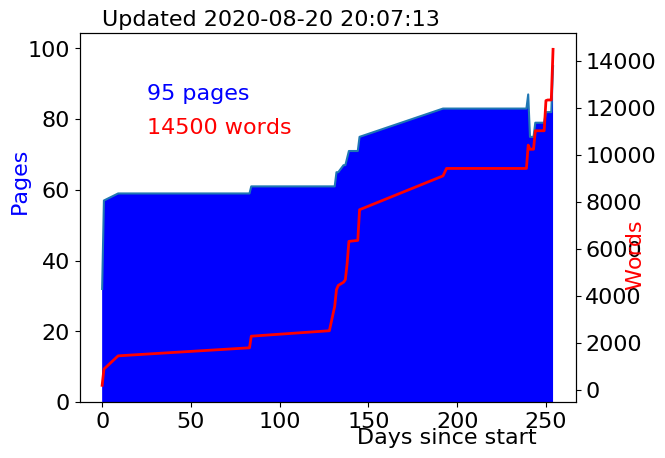
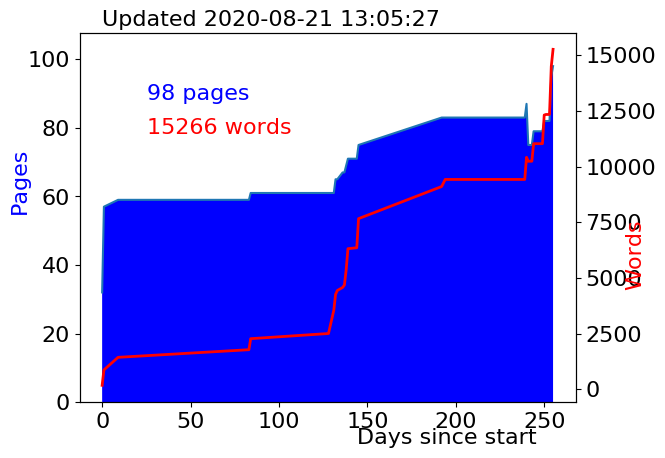
finishing systematics chapter

diff --git a/Chapters/Systematics.tex b/Chapters/Systematics.tex
@@ -4,7 +4,7 @@ In order to use this analysis to make a statement about a potential \ac{BSM} mod
 
 Where possible, the \ac{MC} is corrected to better represent the data using \emph{scale factors}, and in other cases systematic uncertainties are measured applied to the final result. Uncertainties are also evaluated on the scale factors and a list of all of the systematic uncertainties applied in the interpretation are listed in \autoref{tab:siguncertainties}. The value listed in the table describes how much varying the efficiency of a given parameter changes the final signal yield. 
 
-The major source of systematic uncertainty on the signal \ac{MC} in this analysis comes from the selection efficiency of displaced leptons, for which there is no comparable data. As a result, this is evaluated in several steps: first the trigger, reconstruction, and selection efficiencies are compared for prompt leptons in the same physics process in data and \ac{MC}; then the tracking efficiency is compared between signal muons and cosmic muons, a different physical phenomenon that also provides high \pt, high \absdz tracks; finally, the lepton reconstruction efficiency is studied with respect to displacement and a conservative additional uncertainty to account for any missed effects in data. Other event-level systematic uncertainties are applied to account for mismodeling of pileup and theory assumptions made during \ac{MC} generation. There are many standard systematic uncertainties derived by \ac{ATLAS}, for example the measurement of the energy of jets or the sagitta of muons, that do not have a large impact on this analysis with its nonstandard physics objects.
+The major source of systematic uncertainty on the signal \ac{MC} in this analysis comes from the selection efficiency of displaced leptons, for which there is no comparable data. As a result, this is evaluated in several steps: first the trigger, reconstruction, and selection efficiencies are compared for prompt leptons in the same physics process in data and \ac{MC}; then the tracking efficiency is compared between signal muons and cosmic muons, a different physical phenomenon that also provides high \pt, high \absdz tracks; finally, the lepton reconstruction efficiency is studied with respect to displacement and a conservative additional uncertainty to account for any missed effects in data. Other event-level systematic uncertainties are applied to account for mismodeling of pileup and theory assumptions made during \ac{MC} generation. There are many standard systematic uncertainties derived by \ac{ATLAS}, for example the jet energy measurements or the sagitta measurements of muons, that do not have a large impact on this analysis with its nonstandard physics objects.
 
 \todo{update table}
 
@@ -24,7 +24,7 @@ Electron Trigger	    & 0       & 0       \\
 Lepton Displacement  	& 1-18    & 2-26         \\
 Pileup Modeling     	& 7       & 7            \\
 Other theory         	& 0-5     & 0-5              \\
-DRAW Alignment Bug		& 1.5     & 1.5          \\
+\texttt{DRAW\_RPVLL} Filter Efficiency		& 1.5     & 1.5          \\
 Luminosity				& 2       & 2          \\
 \hline
 \end{tabular}
@@ -44,14 +44,33 @@ For prompt leptons, the difference between data and \ac{MC} can be thoroughly st
 \begin{equation}
 \text{scale factor} = \frac{\text{efficiency in data}}{\text{efficiency in MC}}
 \end{equation}
-Then the statistical uncertainty on this value is evaluated and applied as an additional uncertainty on the signal. 
+Then the statistical uncertainty on this value is evaluated and applied as an additional uncertainty on the signal. A 90\% scale factor means that \ac{MC} overestimates the selection efficiency by 10\%. In general, \ac{MC} estimates higher efficiencies than are seen in data. In particular, the \ac{MC} assumes a perfectly aligned detector, which is not true in practice, so variables like electron \dpt or muon \chiCB contribute to a difference between data and \ac{MC}. 
+
+\ac{ATLAS} centrally defines electron and muon scale factors for prompt electrons and muons, but due to the special triggers and selection criteria used in this analysis, custom scale factors are required. For electrons, this analysis uses photon triggers as well as a bug-fixed electron reconstruction, as well as a custom identification and non-standard selection criteria, so custom scale factors for all of these must be derived specifically for this analysis. For muons, a nonstandard trigger is used, but the reconstruction is standard (except for the tracking, evaluated separately) and the only change to the identification criteria is the removal of the cut on pixel hits, which almost all prompt muons have, so central scale factors are used, with additional selection and special trigger scale factors derived for this analysis.
+
+\subsubsection{Electrons}
+
+For electrons, $Z\rightarrow ee$ events are used to evaluate trigger scale factors, and a single scale factor for reconstruction, identification, and selection as all electrons coming from the Z are real electrons and should pass the trigger as well as all selection criteria.
+
+For both \texttt{HLT\_2g50\_loose} and \texttt{HLT\_g140\_loose} triggers, the efficiency is defined as the number of electrons passing the trigger divided by the number of electrons passing the offline identification criteria. This is done for single electrons, and in the case of the 2 electron trigger, the results are summed in quadrature. It was found that above the trigger threshold, the trigger efficiency in both data and \ac{MC} is very close to 100\%, so this scale factor and its associated uncertainty is considered negligible.
+
+The reconstruction, identification, and selection scale factors are evaluated together, by measuring the efficiency for an electron candidate to pass the final signal selection. Electron candidates are cluster-track combinations that will get identified as a photon, conversion, or electron (or none). The track reconstruction is studied separately and the cluster reconstruction efficiency at the signal \pt is nearly 100\%. The scale factors for electron selection are defined as a function of $E_{T}$ and $\eta$ and around 98\% except for in the region between the barrel and endcap (around $|\eta|$ = 1.5) where it drops to 90\% and the statistical uncertainty varies from 1-3\%. 
+
+
+\subsubsection{Muons}
+$Z\rightarrow \mu\mu$ data and \ac{MC} are used to define additional scale factors for the \texttt{HLT\_mu60\_0eta105\_msonly} trigger. The standard trigger scale factors correct for many features of the \ac{MS} and additional corrections are derived and applied for this analysis. Events are required to pass a \ac{MET} trigger to ensure an unbiased data sample and have two muons within 10 GeV of the mass of the Z boson. The trigger efficiency is then defined as the number of muons passing the \texttt{HLT\_mu60\_0eta105\_msonly} trigger divided by the number of baseline muons within 10 \GeV of the Z boson peak.
+
+Similarly, selection scale factors are defined by requiring that one muon near the Z mass pass all signal selections (except the \absdz cut), then the efficiency for the second baseline muon to pass the same signal selection cuts.
+
+The scale factors are larger for muons than for electrons because many of the structural features of the \ac{MS} are not well modeled in \ac{MS}. The statistical errors are also around 3\%.
+
 
 \subsection{Tracking}
-This analysis relies on \ac{LRT} in order to reconstruct leptons with high \pt and high \absdz. To do this, we exploit the collection of high \pt, high \absdz tracks provided by cosmic muons. Cosmic muons are tagged as muons with \ac{MS} activity on the other side of the detector, so the cosmic muon must have also passed through the \ac{ID} leaving a track behind. Provided we make some kinematic selections, the existence of the track back-to-back with the cosmic should be solely dependent on the LRT efficiency.
+This analysis relies on \ac{LRT} in order to reconstruct leptons with high \pt and high \absdz. To do this, we exploit the collection of high \pt, high \absdz tracks provided by cosmic muons. Cosmic muons are tagged as muons with \ac{MS} activity on the other side of the detector, so the cosmic muon must have also passed through the \ac{ID} leaving a track behind. Provided we make some kinematic selections, the existence of the track back-to-back with the cosmic should be solely dependent on the \ac{LRT} efficiency.
 
 A tag-and-probe analysis is performed here as well, by tagging a cosmic muon and looking for tracks back-to-back with it in a narrow $\Delta R$ cone. Then compare this to a tag-and-probe analysis in signal \ac{MC} by looking for a track in a narrow $\Delta R$ cone from a truth muon. We bin these efficiencies in \pt and \dz to account for the difference in the physical processes and divide the efficiencies to determine a systematic uncertainty. 
 
-There are several important kinematic selections that must be made to ensure the collection of tracks we are comparing are similar. First, to get a consistent readout for cosmic tagged muons, we require that $\phi > 0$ muons have negative \tavg (early w.r.t collision), and $\phi < 0$ have positive \tavg (late w.r.t collision). This ensures that the entire \ac{ID} track can be readout in the readout window. Making this cut shows a flat reconstruction efficiency w.r.t. \tavg. All signal muons have very central timing, with \ac{ID} signatures created before \ac{MS} signatures, so this cut would have no impact on signal. The impact of the timing cut can be seen in \autoref{fig:cos_sys_t0} Second, the single cosmic ray muon passes through the detector in an approximately straight line through the ID, so the \dz is simply the distance the cosmic muon was from the PV. This is not the case for signal muons, whose \dz does not measure a point the muon has gone through, but an extrapolation to the PV of the signal track. This means that signal tracks with the same \dz can have very different properties, such as number of hits on track. To correct for this, we require the $R_{\textrm{decay}}$ and \dz to fall between the same two silicon layers. A sketch of this difference can be seen in Fig.~\ref{fig:lrt_sig_sketch}. Finally, cosmic muons have a much wider \z range than signal muons, which induces an $\eta$ dependence. So we require cosmic muons to have \absz < 120mm, to harmonize with signal muons. Additionally, in order to be triggered, they must have $|\eta| < 1.05$, so this requirement is made on both signal and cosmic muons. A full list of cuts made on tag muons and probe tracks can be found in \autoref{tab:lrt-mu-cuts} and \autoref{tab:lrt-track-cuts}.
+There are several important kinematic selections that must be made to ensure the collection of tracks we are comparing are similar. First, to get a consistent readout for cosmic tagged muons, we require that $\phi > 0$ muons have negative \tavg (early w.r.t collision), and $\phi < 0$ have positive \tavg (late w.r.t collision). This ensures that the entire \ac{ID} track can be readout in the readout window. Making this cut shows a flat reconstruction efficiency w.r.t. \tavg. All signal muons have very central timing, with \ac{ID} signatures created before \ac{MS} signatures, so this cut would have no impact on signal. The impact of the timing cut can be seen in \autoref{fig:cos_sys_t0} Second, the single cosmic ray muon passes through the detector in an approximately straight line through the \ac{ID}, so the \dz is simply the distance the cosmic muon was from the PV. This is not the case for signal muons, whose \dz does not measure a point the muon has gone through, but an extrapolation to the PV of the signal track. This means that signal tracks with the same \dz can have very different properties, such as number of hits on track. To correct for this, we require the $R_{\textrm{decay}}$ and \dz to fall between the same two silicon layers. A sketch of this difference can be seen in Fig.~\ref{fig:lrt_sig_sketch}. Finally, cosmic muons have a much wider \z range than signal muons, which induces an $\eta$ dependence. So we require cosmic muons to have \absz < 120mm, to harmonize with signal muons. Additionally, in order to be triggered, they must have $|\eta| < 1.05$, so this requirement is made on both signal and cosmic muons. A full list of cuts made on tag muons and probe tracks can be found in \autoref{tab:lrt-mu-cuts} and \autoref{tab:lrt-track-cuts}.
 
  
 We assume that the tracking efficiency is symmetric around the detector and that after GSF tracking, electron tracking and muon tracking have equivalent efficiency (see Figure~\ref{fig:trk_el_mu}. The uncertainty is assigned to each lepton based on its \pt and \absdz and they are summed in quadrature to get an event level systematic. Results of this can be seen in in Fig.~\ref{fig:lrt_syst}
@@ -64,7 +83,7 @@ We assume that the tracking efficiency is symmetric around the detector and that
 \includegraphics[width=.3\textwidth]{figures/LRT_systs/cosmics_phil0_eff_t0.pdf}
 \includegraphics[width=.3\textwidth]{figures/LRT_systs/cosmics_phig0_eff_t0.pdf}
 \includegraphics[width=.3\textwidth]{figures/LRT_systs/cosmics_eff_t0.pdf}
-\caption{LRT efficiency measured with various $\phi$ and \tavg cuts. The right shows $\phi < 0$ muons with no \tavg cut, the center shows $\phi > 0$ muons with no \tavg cut, and the left shows the final selections, with $\phi > 0$ requried to have \tavg < 0 and $\phi < 0$ \tavg > 0. This gives a consistent readout configuration and an approximately flat efficiency w.r.t \tavg. In particular, there $\phi < 0$ muons with negative timing that result in an artificially low efficiency, likely due to incomplete readout.}
+\caption{\ac{LRT} efficiency measured with various $\phi$ and \tavg cuts. The right shows $\phi < 0$ muons with no \tavg cut, the center shows $\phi > 0$ muons with no \tavg cut, and the left shows the final selections, with $\phi > 0$ requried to have \tavg < 0 and $\phi < 0$ \tavg > 0. This gives a consistent readout configuration and an approximately flat efficiency w.r.t \tavg. In particular, there $\phi < 0$ muons with negative timing that result in an artificially low efficiency, likely due to incomplete readout.}
 \label{fig:cos_sys_t0}
 \end{figure}
 
@@ -72,7 +91,7 @@ We assume that the tracking efficiency is symmetric around the detector and that
 \begin{figure}[htbp]
 \centering
 \includegraphics[width=.6\textwidth]{figures/LRT_systs/cos_sig_LRT.png}
-\caption{An illustration of the difference in \dz measurements between cosmic (left) and signal muons. The \dz of a cosmic muon is always measured just before its first hit, whereas for a signal muon, the first hit can come far after the \dz. The blue x's represent ID hits and the red lines represent muon tracks.}
+\caption{An illustration of the difference in \dz measurements between cosmic (left) and signal muons. The \dz of a cosmic muon is always measured just before its first hit, whereas for a signal muon, the first hit can come far after the \dz. The blue x's represent \ac{ID} hits and the red lines represent muon tracks.}
 \label{fig:lrt_sig_sketch}
 \end{figure}
 
@@ -83,31 +102,27 @@ We assume that the tracking efficiency is symmetric around the detector and that
 \includegraphics[width=.48\textwidth]{figures/LRT_systs/stlrt_compare_elmu_pt.pdf}
 \includegraphics[width=.48\textwidth]{figures/LRT_systs/stlrt_compare_elmu_eta.pdf}
 \includegraphics[width=.48\textwidth]{figures/LRT_systs/stlrt_compare_elmu_phi.pdf}
-\caption{Tracking efficency for electrons and muons in signal MC (all lifetimes of 300 GeV slepton). These plots justify the assumpution that tracking efficiency is the same between electrons and muons and symmetric about the ID volume.}
+\caption{Tracking efficency for electrons and muons in signal MC (all lifetimes of 300 GeV slepton). These plots justify the assumpution that tracking efficiency is the same between electrons and muons and symmetric about the \ac{ID} volume.}
 \label{fig:trk_el_mu}
 \end{figure}
 
 \begin{table}
-\centering
-\begin{tabular}{lcc}
-\hline
+\begin{tabular}{c}
 Cut on cosmic muon \\
 \hline
-$\pt > 50$ \GeV \\
-\absdz > 3mm \\
+$\pt > 50 \GeV$ \\
+$\absdz > 3$mm \\
 $|\eta| < 1.05$ \\
-$\absz < 120 mm$ \\
+$\absz < 120$ mm \\
 $\tavg > 0$ if $\phi_{\mu} < 0$ OR $\tavg > 0$ if $\phi_{\mu} > 0$ \\
 \hline
 \end{tabular}
 \quad
-\quad
-\begin{tabular}{lcc}
-\hline
+\begin{tabular}{c}
 Cut on truth muon\\
 \hline
 $\pt > 50 \GeV$ \\
-$\absdz > 3mm$ \\
+$\absdz > 3$mm \\
 $|\eta| < 1.05$ \\
 parent is a slepton \\
 \dz and $R_{\textrm{decay}}$ between the same silicon layers\\
@@ -119,8 +134,7 @@ parent is a slepton \\
 
 \begin{table}
 \centering
-\begin{tabular}{lcc}
-\hline
+\begin{tabular}{c}
 Cut on cosmic muon \\
 \hline
 $\pt > 30 \GeV$ \\
@@ -131,15 +145,16 @@ $|z_{0, \textrm{track}} - z_{0, \mu}| < 20$ \\
 \end{tabular}
 \quad
 \quad
-\begin{tabular}{lcc}
-\hline
+\begin{tabular}{c}
 Cut on truth muon\\
 \hline
 $\pt > 30 \GeV$ \\
 $\Delta R = \sqrt{ (\Delta \phi)^{2} + (\Delta \eta)^{2}} < 0.05$ \\
+ \\
+ \\
 \hline
 \end{tabular}
-\caption{Cuts on probe ID tracks. In data (right) and signal (left).}
+\caption{Cuts on probe \ac{ID} tracks. In data (right) and signal (left).}
 \label{tab:lrt-track-cuts}
 \end{table}
 
@@ -172,9 +187,9 @@ $\Delta R = \sqrt{ (\Delta \phi)^{2} + (\Delta \eta)^{2}} < 0.05$ \\
 
 \subsection{Lepton Displacement}
 
-The effect of displacement on lepton reconstruction is applied as an additional uncertainty to account for reconstruction effects not captured by the tracking or prompt lepton systematic uncertainties. Specifically, this uncertainty is meant to capture any discrepancy in MS track or electron shower shape parameters at high \absdz between data and MC, as well as how they are combined with the ID track. Unfortunately, there is no sample high-\absdz leptons in data that can be used to compare to MC, so this uncertainty is conservatively defined as any change in efficiency with respect to prompt leptons. This uncertainty for muons is quite small, while it is much more substantial for electrons. Electrons are identified using a likelihood, which is trained with \dz as a discriminating variable. \absdz from the cuts performed offline, but the LH was not retrained, and so there as a larger relic \dz dependence and the displacement uncertainty is much larger. At high \absdz, the electron displacement uncertainty is dominant over the tracking uncertainty.
+The effect of displacement on lepton reconstruction is applied as an additional uncertainty to account for reconstruction effects not captured by the tracking or prompt lepton systematic uncertainties. Specifically, this uncertainty is meant to capture any discrepancy in \ac{MS} track or electron shower shape parameters at high \absdz between data and MC, as well as how they are combined with the \ac{ID} track. Unfortunately, there is no sample high-\absdz leptons in data that can be used to compare to MC, so this uncertainty is conservatively defined as any change in efficiency with respect to prompt leptons. This uncertainty for muons is quite small, while it is much more substantial for electrons. Electrons are identified using a likelihood, which is trained with \dz as a discriminating variable. \absdz from the cuts performed offline, but the LH was not retrained, and so there as a larger relic \dz dependence and the displacement uncertainty is much larger. At high \absdz, the electron displacement uncertainty is dominant over the tracking uncertainty.
 
-To determine the systematic uncertainty due to displaced reconstruction, we divide the baseline or signal reconstruction/selection efficiency by the tracking efficiency in order to separate any inefficiences from LRT. Then, we take the ratio of each high \dz bin to the prompt bin (0-3mm), results of this are shown in Fig.~\ref{fig:disp_systs}. The uncertainty is assigned to each lepton and they are summed in quadrature to get an event level systematic. 
+To determine the systematic uncertainty due to displaced reconstruction, we divide the baseline or signal reconstruction/selection efficiency by the tracking efficiency in order to separate any inefficiences from \ac{LRT}. Then, we take the ratio of each high \dz bin to the prompt bin (0-3mm), results of this are shown in Fig.~\ref{fig:disp_systs}. The uncertainty is assigned to each lepton and they are summed in quadrature to get an event level systematic. 
 
 \begin{figure}[htbp]
 \centering
@@ -223,14 +238,14 @@ To determine the systematic uncertainty due to displaced reconstruction, we divi
 
 
 
-Small trends in \dz can be seen in some shower shape variables, particularly in ERatio and RHad, though not enough to explain the full discrepancy. In muons, trends can be seen in the MS track $\chi^{2}$ as well as the Eloss, and in electrons trends can be seen in $f_{1}$ and ERatio. We checked for, but did not find, trends in \dz with respect to other MS track or shower shape variables. 
+Small trends in \dz can be seen in some shower shape variables, particularly in ERatio and RHad, though not enough to explain the full discrepancy. In muons, trends can be seen in the \ac{MS} track $\chi^{2}$ as well as the Eloss, and in electrons trends can be seen in $f_{1}$ and ERatio. We checked for, but did not find, trends in \dz with respect to other \ac{MS} track or shower shape variables. 
 
 
 \begin{figure}[htbp]
 \centering
 \includegraphics[width=.48\textwidth]{figures/disp_systs/m_signal_MStrack_chi2_profile.pdf}
 \includegraphics[width=.48\textwidth]{figures/disp_systs/m_signal_MStrack_ELoss_profile.pdf}
-\caption{Muon quality variables with trends with respect to \absdz, MS track $\chi^{2}$ (left) and Eloss. Taken from a 300 GeV signal sample with lifetimes between 0.01ns-1ns.}
+\caption{Muon quality variables with trends with respect to \absdz, \ac{MS} track $\chi^{2}$ (left) and Eloss. Taken from a 300 GeV signal sample with lifetimes between 0.01ns-1ns.}
 \label{fig:profs_mu}
 \end{figure}
 
@@ -241,5 +256,20 @@ Small trends in \dz can be seen in some shower shape variables, particularly in 
 \caption{Electron shower shape quality variables with trends with respect to \absdz, $f_{1}$ (left) and ERatio. Taken from a 300 GeV signal sample with lifetimes between 0.01ns-1ns.}
 \label{fig:profs_el}
 \end{figure}
+
+
+\subsection{Other Sources of Uncertainty}
+
+\subsubsection{Pileup Modeling}
+When \ac{MC} is generated, particularly when it is generated during the course of the run, the actual pileup distribution of the events from the \ac{LHC} is not known. This is corrected through a process called \emph{pileup reweighting}, where a more realistic pileup profile is added to \ac{MC} events. Since the regions in this analysis are dominated by fakes and cosmics, not the kinds of events the pileup reweighting is trained for, the pileup modeling becomes a dominant uncertainty in this analysis.
+
+\subsubsection{Theoretical Uncertainties}
+
+Additional uncertainties are taken for the renormalization and factorization scales that are used to generate the physical processes in \ac{MC}. These impact both the cross section measurement and the final lepton kinematics. Both scales are varied, impact on the final results quantified, and the range of variation is taken as an uncertainty, in this analysis about 5\%. 
+
+\subsubsection{Luminosity Measurement}
+\ac{ATLAS} measures luminosity using dedicated detectors and calibrations (discussed in \autoref{sec:lumi}. The uncertainty on this measurement contributes a 2\% uncertainty to the analysis, as it impacts the normalization of the signal yield from \ac{MC}.
+
+
 
 

diff --git a/Chapters/Results.tex b/Chapters/Results.tex
@@ -12,15 +12,15 @@ This analysis was designed to be as general as possible, so the results can be a
 \begin{tabular}{l  c } 
 Cut & data yield\\
 \hline
-Pass trigger and at least 2 baseline leptons & 65484.000 $\pm$ 255.898\\
-2 leading leptons are electrons & 19419.000 $\pm$ 139.352\\ 
-\pt $> 65$ GeV & 14061.000 $\pm$ 118.579\\
-\absdz $> 3$ mm & 11589.000 $\pm$ 107.652\\
-both electrons pass isolation & 9220.000 $\pm$ 96.021\\
-\dpt $\geq$ -0.5 & 7.000 $\pm$ 2.646\\
-\chiID $< $ 2 &  2.000 $\pm$ 1.414\\
-\nmiss $\leq 1$ & 0.000 $\pm$ 0.000\\
-\dRll $> 0.2$ &  0.000 $\pm$ 0.000\\ 
+Pass trigger and at least 2 baseline leptons & 65484 \\
+2 leading leptons are electrons & 19419 \\ 
+\pt $> 65$ GeV & 14061 \\
+\absdz $> 3$ mm & 11589 \\
+both electrons pass isolation & 9220\\
+\dpt $\geq$ -0.5 & 7\\
+\chiID $< $ 2 &  2\\
+\nmiss $\leq 1$ & 0\\
+\dRll $> 0.2$ &  0\\ 
 \hline
 \end{tabular}
 \caption{Cutflow for SR-$ee$ for Run 2 data.}
@@ -33,19 +33,19 @@ both electrons pass isolation & 9220.000 $\pm$ 96.021\\
 \begin{tabular}{l  c } 
 Cut & data yield\\
 \hline
-Pass trigger and at least 2 baseline leptons & 65484.000 $\pm$ 255.898\\
-2 leading leptons are muons & 45845.000 $\pm$ 214.114 \\ 
-$\pt> 65$ GeV & 35607.000 $\pm$ 188.698\\
-\absdz $ > $ 3 mm & 35326.000 $\pm$ 187.952\\
-both muons pass isolation & 35204.000 $\pm$ 187.627\\
-muons pass cosmic veto & 2.000 $\pm$ 1.414\\
-\tavg$ <$ 30 & 2.000 $\pm$ 1.414\\
-\chiID $ < $ 2 & 2.000 $\pm$ 1.414\\
-\nmiss $\leq 1$ & 2.000 $\pm$ 1.414\\
-\nprecision $\geq 3$ & 0.000 $\pm$ 0.000 \\
- \chiCB $ < $ 3& 0.000 $\pm$ 0.000  \\
-\nphi $> 0$ &0.000 $\pm$ 0.000 \\
-\dRll $ > 0.2$ & 0.000 $\pm$ 0.000\\ 
+Pass trigger and at least 2 baseline leptons & 65484\\
+2 leading leptons are muons & 45845 \\ 
+$\pt> 65$ GeV & 35607\\
+\absdz $ > $ 3 mm & 35326\\
+both muons pass isolation & 35204\\
+muons pass cosmic veto & 2\\
+\tavg$ <$ 30 & 2\\
+\chiID $ < $ 2 & 2\\
+\nmiss $\leq 1$ & 2\\
+\nprecision $\geq 3$ & 0 \\
+ \chiCB $ < $ 3& 0  \\
+\nphi $> 0$ &0 \\
+\dRll $ > 0.2$ & 0\\ 
 \hline
 \end{tabular}
 \caption{Cutflow for SR-$\mu\mu$ for Run 2 data.}
@@ -59,25 +59,22 @@ muons pass cosmic veto & 2.000 $\pm$ 1.414\\
 \begin{tabular}{l  c} 
 Cut & data yield\\
 \hline
-Pass trigger and at least 2 baseline leptons & 65484.000 $\pm$ 255.898\\
-2 leading leptons are a muon and an electron & 191.000 $\pm$ 13.820 \\ 
-$\pt > 65$ GeV  & 128.000 $\pm$ 11.314\\
-\absdz$ > $ 3 mm & 107.000 $\pm$ 10.344\\
-both leptons pass isolation & 98.000 $\pm$ 9.899\\
-\hline
-muon pass cosmic veto & 86.000 $\pm$ 9.274\\
-muon \tavg$ <$ 30 & 82.000 $\pm$ 9.055\\
-muon \chiID$ < $ 2 & 72.000 $\pm$ 8.485 \\
-muon \nmiss $\leq 1$ & 68.000 $\pm$ 8.246\\
-muon \nprecision $\geq 3$ & 6.000 $\pm$ 2.449 \\
-muon \chiCB $ < $ 3 &  0.000 $\pm$ 0.000\\
-muon \nphi $> 0$ & 0.000 $\pm$ 0.000\\
-\hline
-electron \dpt $ \geq$ -0.5  &0.000 $\pm$ 0.000 \\
-electron \chiID $ < $ 2 & 0.000 $\pm$ 0.000 \\
-electron \nmiss $\leq 1$ &0.000 $\pm$ 0.000 \\
-\hline
-\dRll $ > 0.2$ &  0.000 $\pm$ 0.000 \\ 
+Pass trigger and at least 2 baseline leptons & 6548\\
+2 leading leptons are a muon and an electron & 1910 \\ 
+$\pt > 65$ GeV  & 128\\
+\absdz$ > $ 3 mm & 107\\
+both leptons pass isolation & 98\\
+muon pass cosmic veto & 86\\
+muon \tavg$ <$ 30 & 82\\
+muon \chiID$ < $ 2 & 72 \\
+muon \nmiss $\leq 1$ & 68\\
+muon \nprecision $\geq 3$ & 6 \\
+muon \chiCB $ < $ 3 &  0\\
+muon \nphi $> 0$ & 0\\
+electron \dpt $ \geq$ -0.5  &0 \\
+electron \chiID $ < $ 2 & 0 \\
+electron \nmiss $\leq 1$ &0 \\
+\dRll $ > 0.2$ &  0 \\ 
 \hline
 \end{tabular}
 \caption{Cutflow for SR-$e\mu$ for Run 2 data.}

diff --git a/Chapters/Accelerators.tex b/Chapters/Accelerators.tex
@@ -53,6 +53,7 @@ Protons originate from hydrogen gas that has been passed through an electric fie
 It takes about $4$ minutes to fill the \ac{LHC} and $20$ minutes to reach $6.5 \TeV$, the beam then circulates in the \ac{LHC} and protons collide at the \ac{IP}s for about $8$ hours. This $8$ hour period of collisions is called a \emph{run}, while the entire collection of runs taken from 2015-2018 is called \emph{Run 2} \footnote{\emph{Run 1} took place from 2009-2013 with a center of mass energy of $7 \TeV$. This is the run in which the Higgs boson was discovered.}. At the end of each run, the beams are \emph{dumped}, and the process restarts. 
 
 \section{Luminosity}
+\label{sec:lumi}
 
 %USED pdg-review.pdf
 If the primary goal of the collider is to study rare physics processes, whether difficult measurements of the \ac{SM} or heretofore unseen \ac{BSM} physics, enough data must be produced to be able to study them. The number of events of a given process in a given data set is given by

diff --git a/FrontBackMatter/Acronyms.tex b/FrontBackMatter/Acronyms.tex
@@ -82,6 +82,7 @@
 % analysis acronyms
 \acro{LLP}{Long Lived Particle}
 \acro{DV}{Displaced Vertex}
+\acro{MET}{Missing Transverse Energy}
 
 \acro{AOD}{Analysis Object Data}
 \acro{dAOD}{derived AOD}

diff --git a/scripts/pages.md b/scripts/pages.md
@@ -313,3 +313,17 @@
 + [2020-08-20-20h00m51s] 97 14617
 + [2020-08-20-20h04m21s] 96 14483
 + [2020-08-20-20h07m13s] 95 14500
++ [2020-08-21-10h33m49s] 95 14500
++ [2020-08-21-10h34m12s] 95 14500
++ [2020-08-21-10h37m19s] 95 14500
++ [2020-08-21-10h39m21s] 95 14500
++ [2020-08-21-10h39m37s] 95 14500
++ [2020-08-21-10h40m21s] 95 14500
++ [2020-08-21-10h42m21s] 95 14500
++ [2020-08-21-10h45m14s] 95 14502
++ [2020-08-21-10h46m07s] 95 14502
++ [2020-08-21-12h43m20s] 97 15081
++ [2020-08-21-12h44m39s] 97 15085
++ [2020-08-21-12h45m15s] 97 15085
++ [2020-08-21-13h05m11s] 98 15266
++ [2020-08-21-13h05m27s] 98 15266
